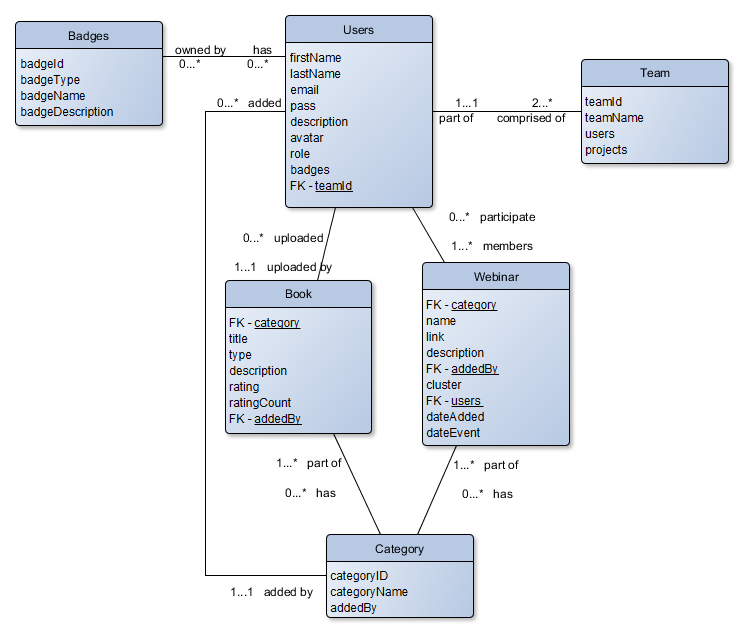
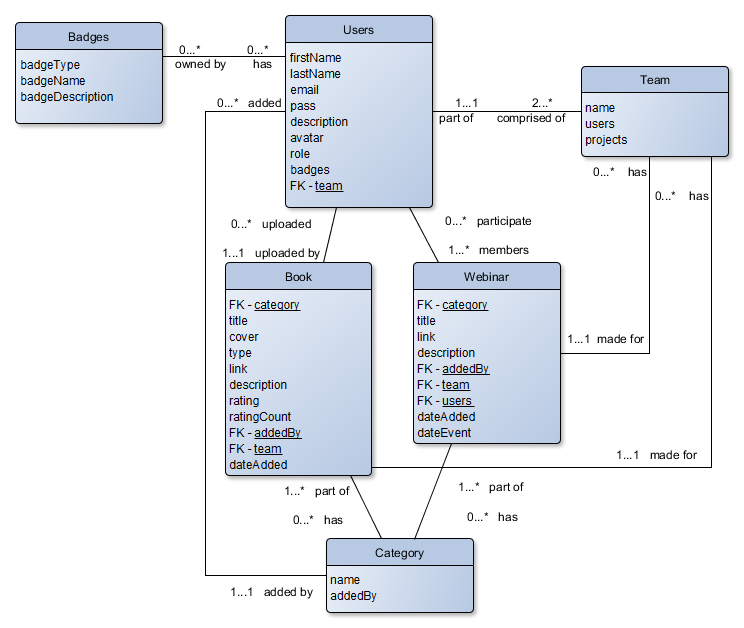
added architecture diagram, updated mocks and ERD

diff --git a/_documentation/README.md b/_documentation/README.md
@@ -2,14 +2,28 @@
 SPA/dashboard for team management
  
  
-Architecture/ERD goes here
+##Architecture
+![architecture](cluster-garage-application-layer.png?raw=true "architecture")
+> Figure 1: **Application layer diagram** - Cluster Garage is a 3-tier application that uses Angular on client-side, Node.js on server-side (with PM2 for server clusterization and load balancing, and OAuth authentication with Passport middleware), and Mongoose as ORM for MongoDB.
 
 
-![initial model](cluster-garage-ERD.png?raw=true "initial model")
 
+##ERD
+
+
+![ERD](cluster-garage-ERD.png?raw=true "ERD")
+> Figure 2: ERD for Cluster Garage - every table/collection will have an implicit id as PK
+ 
+**Obs1**: Any Id field will use the standard **ObjectId** format of MongoDB ("_id" field). Otherwise, validation and hardcoding (or generating method other than ObjectId) is needed to uniquely identify a document.
+ 
+**Obs2**: The schema will be enforced through Mongoose models.
+ 
+**Obs3**: To make it more efficient (and/or more portable), the FK will be implemented through [MongoDB references](https://docs.mongodb.com/manual/reference/database-references/).
+ 
 ###User mock
 ```
 {
+	"_id": "<ObjectId-00>",
 	"firstName": "John",
 	"lastName": "Doe",
 	"email": "john.doe@johndoe.io",
@@ -17,8 +31,83 @@ Architecture/ERD goes here
 	"description": "Random guy",
 	"avatar": "<link-to-png>",
 	"role": "basic",
-	"badges": [	],
-	"cluster": "DoesTeam"
+	"badges": [	
+		{ 
+			"badgeId": "<ObjectId-2>",
+			"badgeDate": "<date-1>" 
+		}
+	],
+	"team": "<ObjectId-1>"
+}
+```
+###Team mock
+```
+{
+	"teamId": "<ObjectId-1>",
+	"name": "DoesTeam",
+	"users": [
+		{ "userId": "<ObjectId-00>" },
+		{ "userId": "<ObjectId-01>" }
+	],
+	"projects": [
+		{ "projectName": "Cluster Garage SPA" }
+	]
+}
+```
+###Badges mock
+```
+{
+	"badgeId": "<ObjectId-2>",
+	"badgeType": "technical",
+	"badgeName": "Most commits per week",
+	"badgeDescription": "The user has made the most commits in a given week."
+}
+```	
+###Category mock
+```
+{
+	"categoryId": "<ObjectId-3>",
+	"name": "Angular",
+	"addedBy": "<ObjectId-00>"
+}
+```	
+###Book mock
+```
+{
+	"category": "<ObjectId-3>",
+	"title": "ng book",
+	"cover": "https://d.gr-assets.com/books/1388883604l/20439304.jpg",
+	"type": "file",
+	"link": "<link-to-pdf>",
+	"description": "What if you could master the entire framework with solid foundations in less time",
+	"rating": 5,
+	"ratingCount": 1,
+	"addedBy": "<ObjectId-00>",
+	"team": "<ObjectId-1>",
+	"dateAdded": "<date-2>"
+}
+```
+###Webinar mock
+```
+{
+	"category": "<ObjectId-3>",
+	"title": "Intro to UI Router",
+	"link": "<link to webinar page / streaming page>",
+	"description": "A first meeting in which we will talk about how we manage client-side routing in SPAs",
+	"addedBy": "<ObjectId-00>",
+	"team": "<ObjectId-1>",
+	"users": [
+		{ 
+			"userId": "<ObjectId-00>",
+			"RSVP": "yes"
+		},
+		{ 
+			"userId": "<ObjectId-01>",
+			"RSVP": "maybe"
+		}
+	],
+	"dateAdded": "<date-3>",
+	"dateEvent": "<date-4>"	
 }
 ```
 
